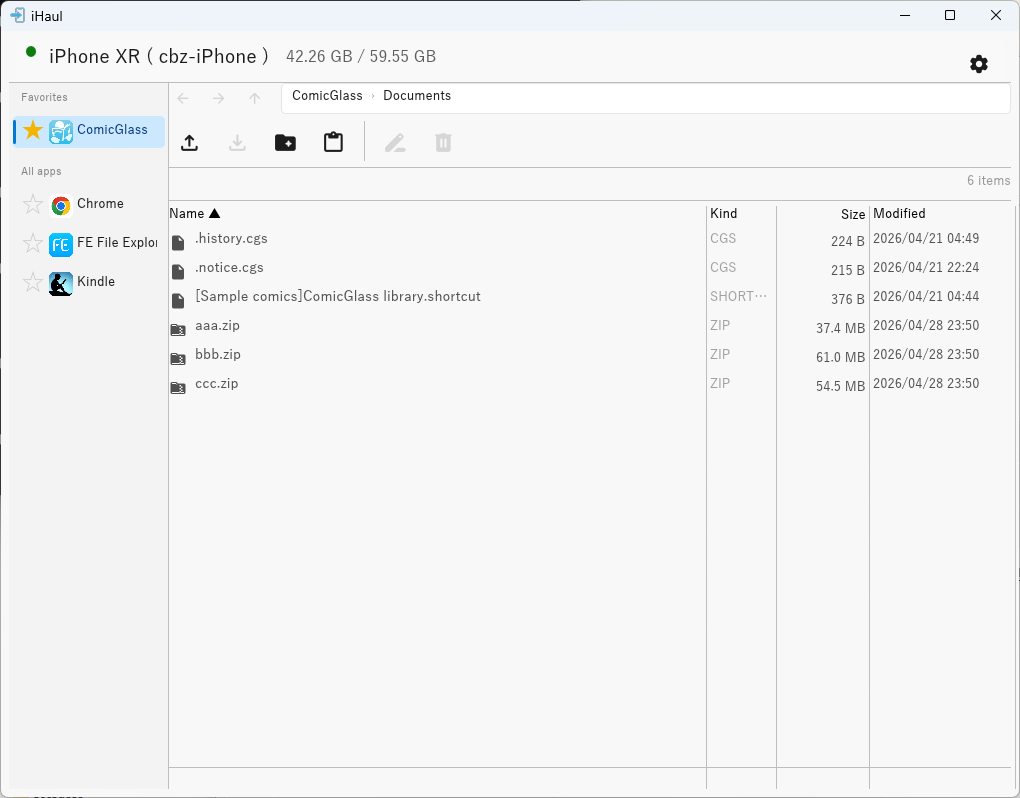
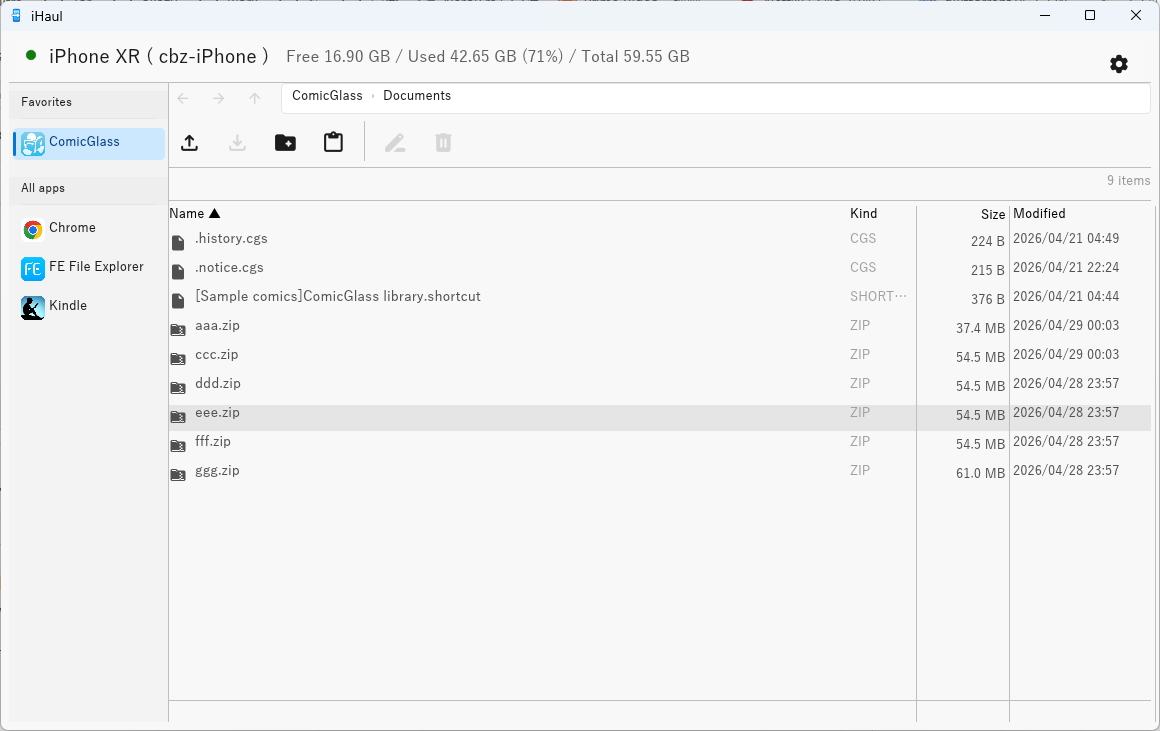
feat: refine sidebar navigation and status display

diff --git a/src/ui/mod.rs b/src/ui/mod.rs
@@ -596,9 +596,15 @@ impl App {
                     ui.label(egui::RichText::new(s.waiting).color(W11_TEXT).size(16.0));
                 }
                 DeviceStatus::Connected { device_name, model_name, storage_used, storage_total, .. } => {
-                    ui.label(egui::RichText::new("●")
-                        .color(egui::Color32::from_rgb(16, 124, 16))
-                        .size(12.0));
+                    let (indicator_rect, _) = ui.allocate_exact_size(
+                        egui::Vec2::splat(12.0),
+                        egui::Sense::hover(),
+                    );
+                    ui.painter().circle_filled(
+                        indicator_rect.center(),
+                        5.0,
+                        egui::Color32::from_rgb(16, 124, 16),
+                    );
                     ui.add_space(4.0);
                     let name_part = if model_name.is_empty() {
                         device_name.clone()
@@ -607,7 +613,20 @@ impl App {
                     };
                     ui.label(egui::RichText::new(&name_part).color(W11_TEXT).strong().size(19.0));
                     let storage_str = match (storage_used, storage_total) {
-                        (Some(u), Some(t)) => format!("{} / {}", format_size(*u), format_size(*t)),
+                        (Some(u), Some(t)) if *t > 0 => {
+                            let free = t.saturating_sub(*u);
+                            let used_percent = u.saturating_mul(100) / t;
+                            format!(
+                                "{} {} / {} {} ({}%) / {} {}",
+                                s.storage_free,
+                                format_size(free),
+                                s.storage_used,
+                                format_size(*u),
+                                used_percent,
+                                s.storage_total,
+                                format_size(*t),
+                            )
+                        }
                         _ => String::new(),
                     };
                     if !storage_str.is_empty() {
@@ -692,44 +711,46 @@ impl App {
 
         egui::ScrollArea::vertical().id_salt("app_scroll").show(ui, |ui| {
             // ── Favorites section ────────────────────────────────────────
-            ui.add_space(4.0);
-            ui.horizontal(|ui| {
-                ui.add_space(12.0);
-                ui.label(egui::RichText::new(s.sidebar_favorites)
-                    .color(egui::Color32::from_gray(130)).size(11.0).strong());
-            });
-            ui.add_space(2.0);
-            for &real_idx in &fav_sorted {
-                let bundle_id    = self.apps[real_idx].bundle_id.clone();
-                let display_name = self.apps[real_idx].display_name.clone();
-                let selected     = self.selected_app_idx == Some(real_idx);
-                let tex          = self.app_icons.get(&bundle_id);
-                let (row_resp, star_clicked) =
-                    sidebar_row(ui, &bundle_id, &display_name, selected, true, tex, "fav");
-                if star_clicked {
-                    toggle_fav = Some(bundle_id.clone());
-                } else if row_resp.clicked() && !selected {
-                    clicked_app = Some((real_idx, bundle_id.clone()));
+            if !fav_sorted.is_empty() {
+                sidebar_section_header(ui, s.sidebar_favorites);
+                for &real_idx in &fav_sorted {
+                    let bundle_id    = self.apps[real_idx].bundle_id.clone();
+                    let display_name = self.apps[real_idx].display_name.clone();
+                    let selected     = self.selected_app_idx == Some(real_idx);
+                    let tex          = self.app_icons.get(&bundle_id);
+                    let row_resp = sidebar_row(ui, &display_name, selected, tex);
+                    let remove_favorite = std::cell::Cell::new(false);
+                    row_resp.context_menu(|ui| {
+                        if ui.button(s.ctx_remove_favorite).clicked() {
+                            remove_favorite.set(true);
+                            ui.close();
+                        }
+                    });
+                    if remove_favorite.get() {
+                        toggle_fav = Some(bundle_id.clone());
+                    } else if row_resp.clicked() && !selected {
+                        clicked_app = Some((real_idx, bundle_id.clone()));
+                    }
                 }
+                ui.add_space(8.0);
             }
-            ui.add_space(8.0);
 
             // ── All apps section ─────────────────────────────────────────
-            ui.add_space(4.0);
-            ui.horizontal(|ui| {
-                ui.add_space(12.0);
-                ui.label(egui::RichText::new(s.sidebar_all_apps)
-                    .color(egui::Color32::from_gray(130)).size(11.0).strong());
-            });
-            ui.add_space(2.0);
+            sidebar_section_header(ui, s.sidebar_all_apps);
             for &real_idx in &non_fav_sorted {
                 let bundle_id    = self.apps[real_idx].bundle_id.clone();
                 let display_name = self.apps[real_idx].display_name.clone();
                 let selected     = self.selected_app_idx == Some(real_idx);
                 let tex          = self.app_icons.get(&bundle_id);
-                let (row_resp, star_clicked) =
-                    sidebar_row(ui, &bundle_id, &display_name, selected, false, tex, "all");
-                if star_clicked {
+                let row_resp = sidebar_row(ui, &display_name, selected, tex);
+                let add_favorite = std::cell::Cell::new(false);
+                row_resp.context_menu(|ui| {
+                    if ui.button(s.ctx_add_favorite).clicked() {
+                        add_favorite.set(true);
+                        ui.close();
+                    }
+                });
+                if add_favorite.get() {
                     toggle_fav = Some(bundle_id.clone());
                 } else if row_resp.clicked() && !selected {
                     clicked_app = Some((real_idx, bundle_id.clone()));
@@ -988,7 +1009,8 @@ impl App {
             .striped(false)
             .resizable(true)
             .max_scroll_height(file_list_h)
-            .column(Column::remainder().at_least(120.0))
+            // Keep Name synchronized with the viewport after the fixed columns.
+            .column(Column::remainder().resizable(false).at_least(120.0))
             .column(Column::initial(62.0).resizable(true).at_least(50.0))
             .column(Column::initial(85.0).resizable(true).at_least(60.0))
             .column(Column::initial(138.0).resizable(true).at_least(100.0))
@@ -1669,16 +1691,13 @@ impl App {
 
 // ─── Sidebar row helper (free function for borrow separation) ────────────────
 /// Renders one pill-shaped sidebar row. Uses painter only (no widget allocation),
-/// so the entire row is clickable. Returns (row_response, star_was_clicked).
+/// so the entire row is clickable.
 fn sidebar_row(
     ui:           &mut egui::Ui,
-    bundle_id:    &str,
     display_name: &str,
     selected:     bool,
-    is_fav:       bool,
     texture:      Option<&egui::TextureHandle>,
-    section:      &str,
-) -> (egui::Response, bool) {
+) -> egui::Response {
     let row_h  = 36.0;
     let full_w = ui.available_width();
     let (row_rect, row_resp) = ui.allocate_exact_size(
@@ -1707,29 +1726,8 @@ fn sidebar_row(
     let content_rect = pill.shrink2(egui::Vec2::new(8.0, 0.0));
     let cy           = row_rect.center().y;
 
-    // ── star / outline-star (24 px on left) — painter only, detected via Sense::click()
-    let star_w    = 24.0;
-    let star_rect = egui::Rect::from_min_size(
-        content_rect.min,
-        egui::Vec2::new(star_w, row_h),
-    );
-    let star_color = if is_fav {
-        egui::Color32::from_rgb(245, 180, 0)
-    } else {
-        egui::Color32::from_gray(200)
-    };
-    ui.painter().text(
-        egui::pos2(star_rect.center().x, cy + 4.0),
-        egui::Align2::CENTER_CENTER,
-        if is_fav { "★" } else { "☆" },
-        egui::FontId::proportional(22.0),
-        star_color,
-    );
-    let star_id   = egui::Id::new((bundle_id, section, "star"));
-    let star_resp = ui.interact(star_rect, star_id, egui::Sense::click());
-
-    // ── app icon (offset 24+4=28 px, 24×24)
-    let icon_x = content_rect.min.x + star_w + 4.0;
+    // ── app icon (24×24)
+    let icon_x = content_rect.min.x;
     if let Some(tex) = texture {
         let icon_rect = egui::Rect::from_center_size(
             egui::pos2(icon_x + 12.0, cy),
@@ -1753,7 +1751,32 @@ fn sidebar_row(
         text_color,
     );
 
-    (row_resp, star_resp.clicked())
+    row_resp
+}
+
+/// Renders a sidebar section label with a full-width separator.
+fn sidebar_section_header(ui: &mut egui::Ui, label: &str) {
+    ui.add_space(4.0);
+    let (rect, _) = ui.allocate_exact_size(
+        egui::Vec2::new(ui.available_width(), 28.0),
+        egui::Sense::hover(),
+    );
+    ui.painter().rect_filled(rect, 0.0, egui::Color32::from_gray(238));
+    ui.painter().text(
+        egui::pos2(rect.min.x + 12.0, rect.center().y),
+        egui::Align2::LEFT_CENTER,
+        label,
+        egui::FontId::proportional(12.0),
+        W11_TEXT,
+    );
+    ui.painter().line_segment(
+        [
+            egui::pos2(rect.min.x + 12.0, rect.max.y - 0.5),
+            egui::pos2(rect.max.x - 12.0, rect.max.y - 0.5),
+        ],
+        egui::Stroke::new(1.0, W11_BORDER),
+    );
+    ui.add_space(4.0);
 }
 
 // ─── eframe::App ─────────────────────────────────────────────────────────────

diff --git a/src/i18n/ja.rs b/src/i18n/ja.rs
@@ -3,6 +3,9 @@ pub static S: super::S = super::S {
     connect_failed:   "接続に失敗しました",
     error_prefix:     "エラー: ",
     disconnected_msg: "デバイスが切断されました",
+    storage_free:     "空き",
+    storage_used:     "使用",
+    storage_total:    "計",
     apps:             "アプリ",
     no_apps:          "アプリがありません",
     sidebar_favorites: "お気に入り",
@@ -38,6 +41,8 @@ pub static S: super::S = super::S {
     ctx_export:       "エクスポート...",
     ctx_rename:       "名前を変更  F2",
     ctx_delete:       "削除  Del",
+    ctx_add_favorite:    "お気に入りに追加",
+    ctx_remove_favorite: "お気に入りから外す",
     btn_ok:           "OK",
     btn_delete:       "削除",
     btn_cancel:       "キャンセル",

diff --git a/src/i18n/en.rs b/src/i18n/en.rs
@@ -3,6 +3,9 @@ pub static S: super::S = super::S {
     connect_failed:   "Connection failed",
     error_prefix:     "Error: ",
     disconnected_msg: "Device disconnected",
+    storage_free:     "Free",
+    storage_used:     "Used",
+    storage_total:    "Total",
     apps:             "Apps",
     no_apps:          "No apps available",
     sidebar_favorites: "Favorites",
@@ -38,6 +41,8 @@ pub static S: super::S = super::S {
     ctx_export:       "Export...",
     ctx_rename:       "Rename  F2",
     ctx_delete:       "Delete  Del",
+    ctx_add_favorite:    "Add to Favorites",
+    ctx_remove_favorite: "Remove from Favorites",
     btn_ok:           "OK",
     btn_delete:       "Delete",
     btn_cancel:       "Cancel",

diff --git a/src/i18n/zh_cn.rs b/src/i18n/zh_cn.rs
@@ -3,6 +3,9 @@ pub static S: super::S = super::S {
     connect_failed:   "连接失败",
     error_prefix:     "错误: ",
     disconnected_msg: "设备已断开",
+    storage_free:     "可用",
+    storage_used:     "已用",
+    storage_total:    "总计",
     apps:             "应用",
     no_apps:          "无可用应用",
     sidebar_favorites: "收藏",
@@ -38,6 +41,8 @@ pub static S: super::S = super::S {
     ctx_export:       "导出...",
     ctx_rename:       "重命名  F2",
     ctx_delete:       "删除  Del",
+    ctx_add_favorite:    "添加到收藏夹",
+    ctx_remove_favorite: "从收藏夹移除",
     btn_ok:           "OK",
     btn_delete:       "删除",
     btn_cancel:       "取消",

diff --git a/src/i18n/mod.rs b/src/i18n/mod.rs
@@ -28,6 +28,9 @@ pub struct S {
     pub connect_failed:   &'static str,
     pub error_prefix:     &'static str,
     pub disconnected_msg: &'static str,
+    pub storage_free:     &'static str,
+    pub storage_used:     &'static str,
+    pub storage_total:    &'static str,
     // sidebar
     #[allow(dead_code)]
     pub apps:    &'static str,
@@ -72,6 +75,8 @@ pub struct S {
     pub ctx_export:     &'static str,
     pub ctx_rename:     &'static str,
     pub ctx_delete:     &'static str,
+    pub ctx_add_favorite:    &'static str,
+    pub ctx_remove_favorite: &'static str,
     // buttons
     pub btn_ok:     &'static str,
     pub btn_delete: &'static str,
